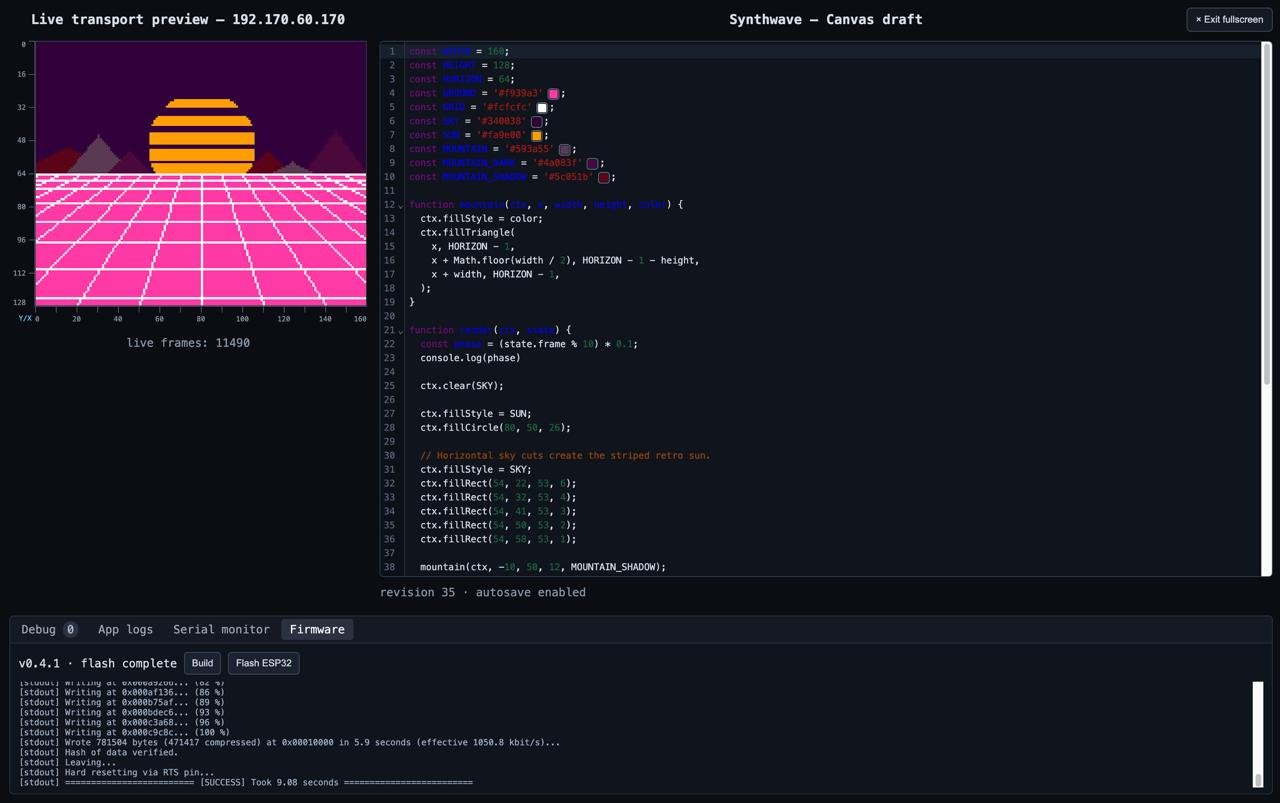
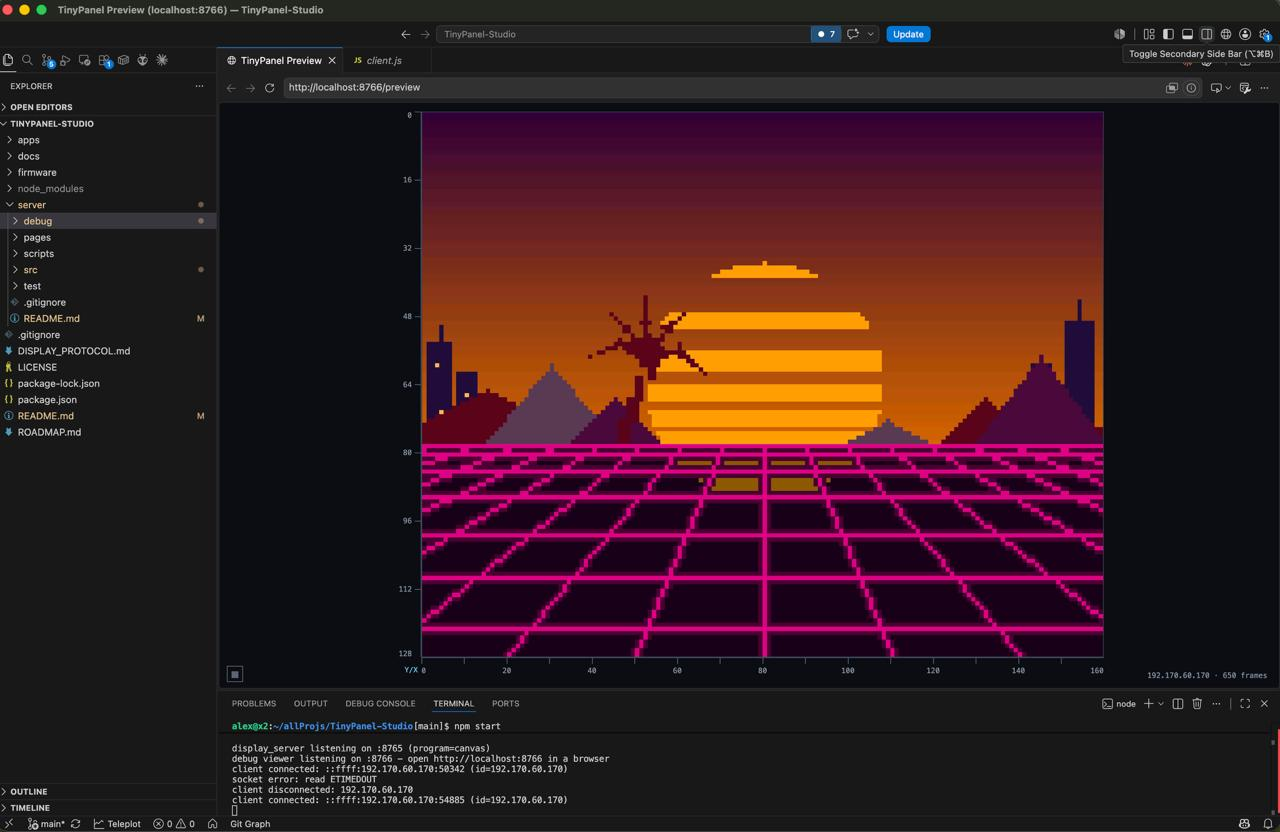
docs: improve IDE preview access

diff --git a/server/debug/preview.html b/server/debug/preview.html
@@ -19,6 +19,13 @@
     background-image: linear-gradient(to right, #ffffff18 1px, transparent 1px),
       linear-gradient(to bottom, #ffffff18 1px, transparent 1px);
     background-size: 10% 100%, 100% 12.5%; }
+  .canvas-wrap.grid-hidden::after { display: none; }
+  #grid-toggle { position: fixed; z-index: 2; left: 10px; bottom: 8px; width: 22px; height: 22px;
+    padding: 0; border: 1px solid #596579; border-radius: 0; background: #0b0d12cc;
+    color: #d8dee9; font: 15px/20px ui-monospace, SFMono-Regular, Menlo, monospace;
+    cursor: pointer; }
+  #grid-toggle[aria-pressed="false"] { color: #657084; background: #0b0d12aa; }
+  #grid-toggle:hover { border-color: #6ec8ff; color: #6ec8ff; }
   .ruler-x, .ruler-y { position: relative; color: #8b96a8; font-size: 10px; user-select: none; }
   .ruler-x { grid-column: 2; grid-row: 2; border-top: 1px solid #465064; }
   .ruler-y { grid-column: 1; grid-row: 1; border-right: 1px solid #465064; }
@@ -42,10 +49,11 @@
 <body>
   <div class="display-ruler">
     <div id="ruler-y" class="ruler-y"></div>
-    <div class="canvas-wrap"><canvas id="panel" width="160" height="128"></canvas></div>
+    <div id="canvas-wrap" class="canvas-wrap"><canvas id="panel" width="160" height="128"></canvas></div>
     <div class="ruler-corner">Y/X</div>
     <div id="ruler-x" class="ruler-x"></div>
   </div>
+  <button id="grid-toggle" type="button" aria-pressed="true" aria-label="Toggle preview grid" title="Toggle preview grid">▦</button>
   <div id="status">waiting for a device…</div>
   <script src="preview-client.js"></script>
 </body>

diff --git a/server/debug/preview-client.js b/server/debug/preview-client.js
@@ -3,10 +3,24 @@
 const canvas = document.getElementById('panel');
 const ctx = canvas.getContext('2d');
 const status = document.getElementById('status');
+const canvasWrap = document.getElementById('canvas-wrap');
+const gridToggle = document.getElementById('grid-toggle');
 const requestedDevice = new URLSearchParams(location.search).get('device');
 let selectedDevice = requestedDevice;
 let eventSource = null;
 let frameCount = 0;
+
+function setGridVisible(visible) {
+  canvasWrap.classList.toggle('grid-hidden', !visible);
+  gridToggle.setAttribute('aria-pressed', String(visible));
+  gridToggle.title = visible ? 'Hide preview grid' : 'Show preview grid';
+  localStorage.setItem('tinypanel-preview-grid', visible ? 'on' : 'off');
+}
+
+setGridVisible(localStorage.getItem('tinypanel-preview-grid') !== 'off');
+gridToggle.addEventListener('click', () => {
+  setGridVisible(gridToggle.getAttribute('aria-pressed') !== 'true');
+});
 
 function addLabels(element, maximum, step, axis) {
   for (let value = 0; value <= maximum; value += step) {

diff --git a/server/src/debugServer.js b/server/src/debugServer.js
@@ -282,7 +282,9 @@ function startDebugServer(port, registry, services = {}) {
   });
 
   server.listen(port, () => {
-    console.log(`debug viewer listening on :${port} - open http://localhost:${port} in a browser`);
+    console.log(`debug viewer listening on :${port}`);
+    console.log(`Device Studio: http://localhost:${port}`);
+    console.log(`IDE preview:   http://localhost:${port}/preview`);
   });
 
   return server;

diff --git a/server/README.md b/server/README.md
@@ -24,8 +24,9 @@ npm start
 Listens on port `8765` by default (override with `DISPLAY_SERVER_PORT`).
 Flash the ESP32 firmware first with `DISPLAY_SERVER_HOST`/`PORT` pointed at
 this machine's LAN IP - the ESP32 connects out to this server, not the other
-way around. Also starts a browser debug viewer at `http://localhost:8766` by
-default - see "Debug viewer" below.
+way around. Also starts Device Studio at `http://localhost:8766` and a compact
+IDE-friendly display view at `http://localhost:8766/preview` by default - see
+"Debug viewer" below.
 
 Runs the selected Canvas application by default, so switching apps in Device
 Studio immediately changes what connected displays render. Run the legacy
@@ -84,6 +85,9 @@ a new one, edit its Canvas source, and see autosaved changes immediately on the
 connected ESP32. The active application is switched without restarting the
 server or reconnecting the display. `.active-app` is local runtime state and is
 not committed.
+
+Open `http://localhost:8766/preview` in an IDE browser panel when you only need
+the live display preview and coordinate grid without the editor and setup UI.
 
 The built-in editor uses locally bundled CodeMirror 6 with JavaScript syntax
 highlighting, line numbers, code folding, bracket matching, search,

diff --git a/README.md b/README.md
@@ -14,9 +14,9 @@ changes appear on the panel without reflashing it.
 
 ![TinyPanel Studio workspace with live ESP32 preview, Canvas editor, app library, and firmware tools](./docs/tinypanel-studio-workspace.jpg)
 
-### Fullscreen editor and preview
+### IDE preview
 
-![TinyPanel Studio fullscreen workspace with Synthwave preview and firmware log](./docs/tinypanel-studio-fullscreen.jpg)
+![TinyPanel Synthwave preview opened in a VS Code browser panel](./docs/tinypanel-studio-fullscreen.jpg)
 
 ## Current features
 
@@ -42,7 +42,9 @@ npm ci
 npm start
 ```
 
-Open `http://localhost:8766`. The device stream listens on TCP port `8765`.
+Open `http://localhost:8766`. For an IDE panel that only shows the live display
+preview and coordinate grid, open `http://localhost:8766/preview`. The device
+stream listens on TCP port `8765`.
 Selecting an app in the left sidebar switches the program rendered on connected
 displays. The legacy Synthwave demo remains available with
 `npm run start:synthwave`.
